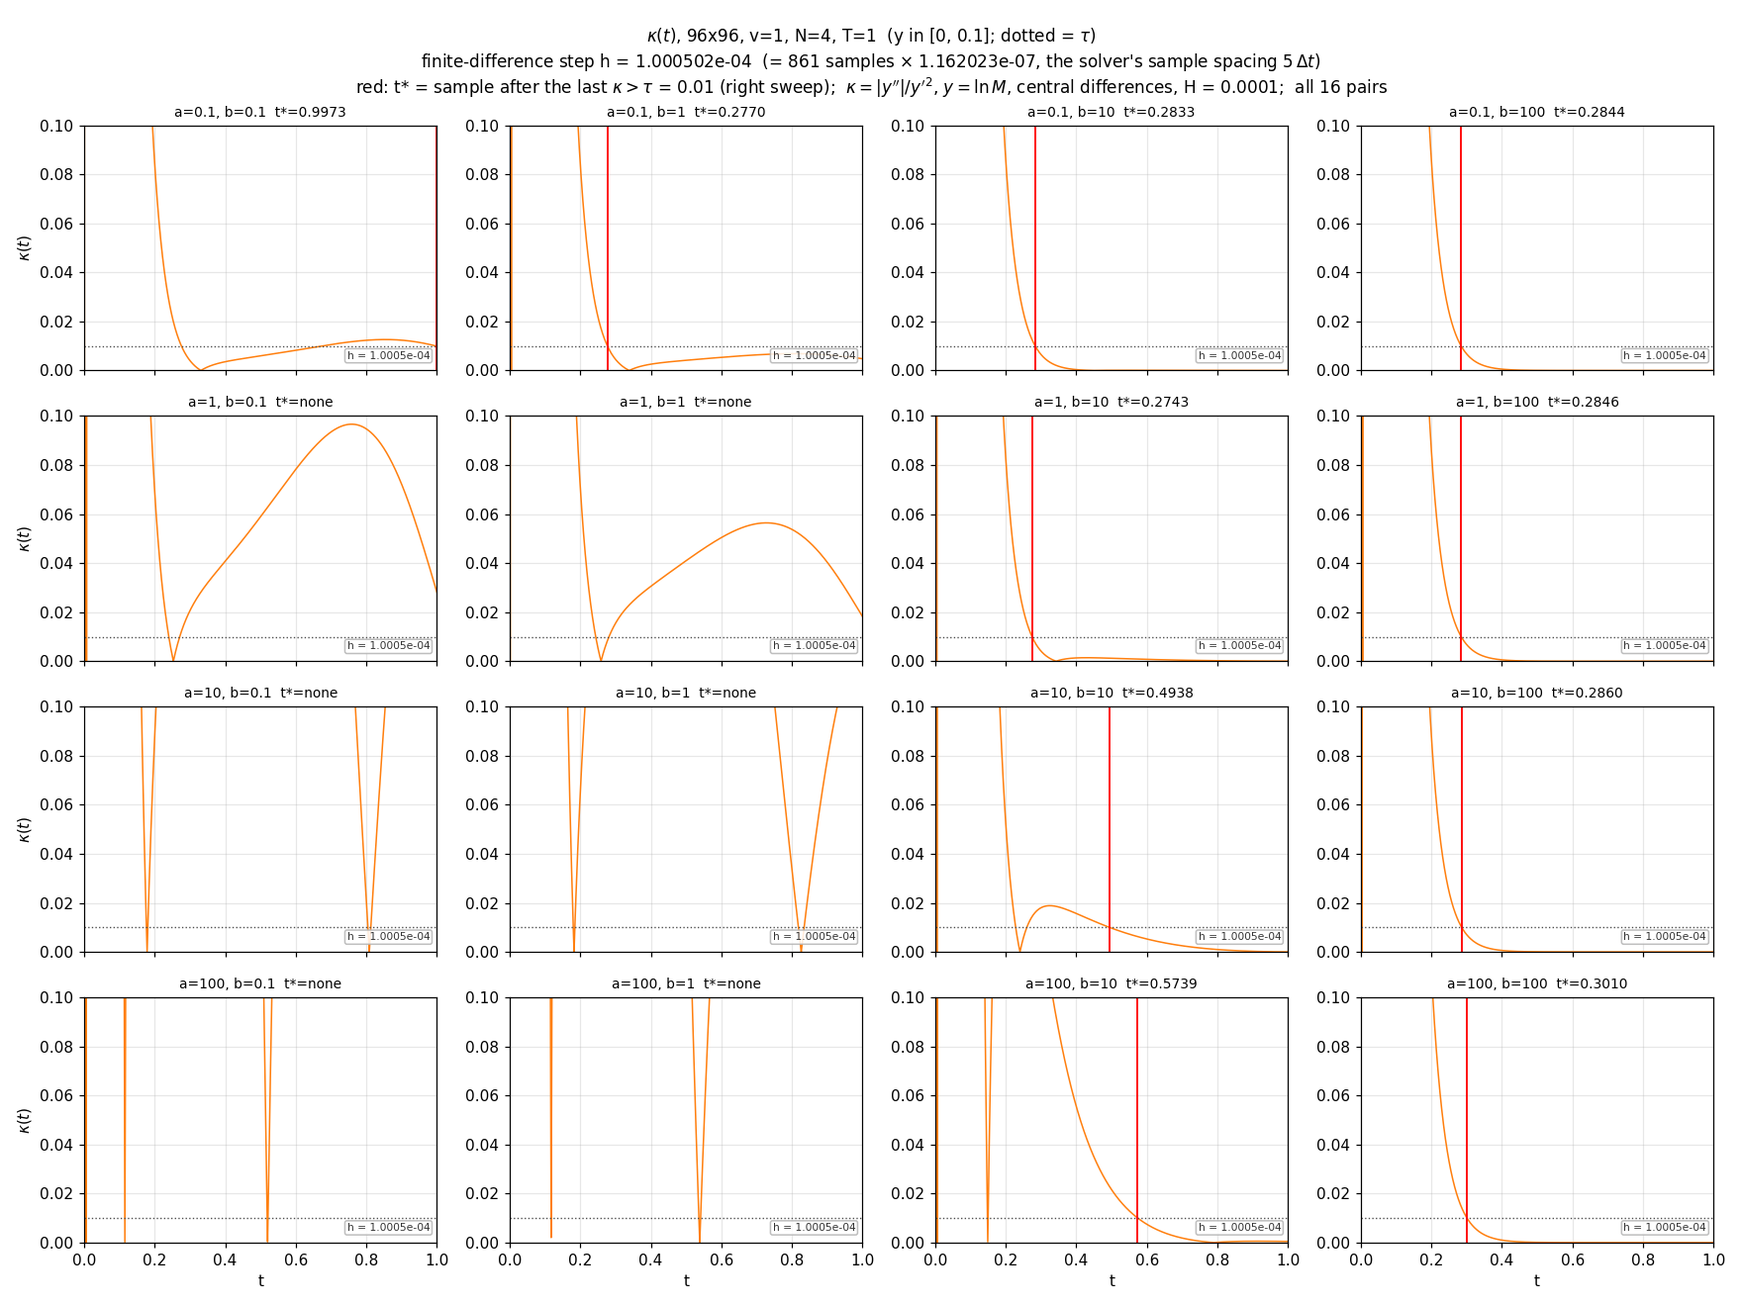
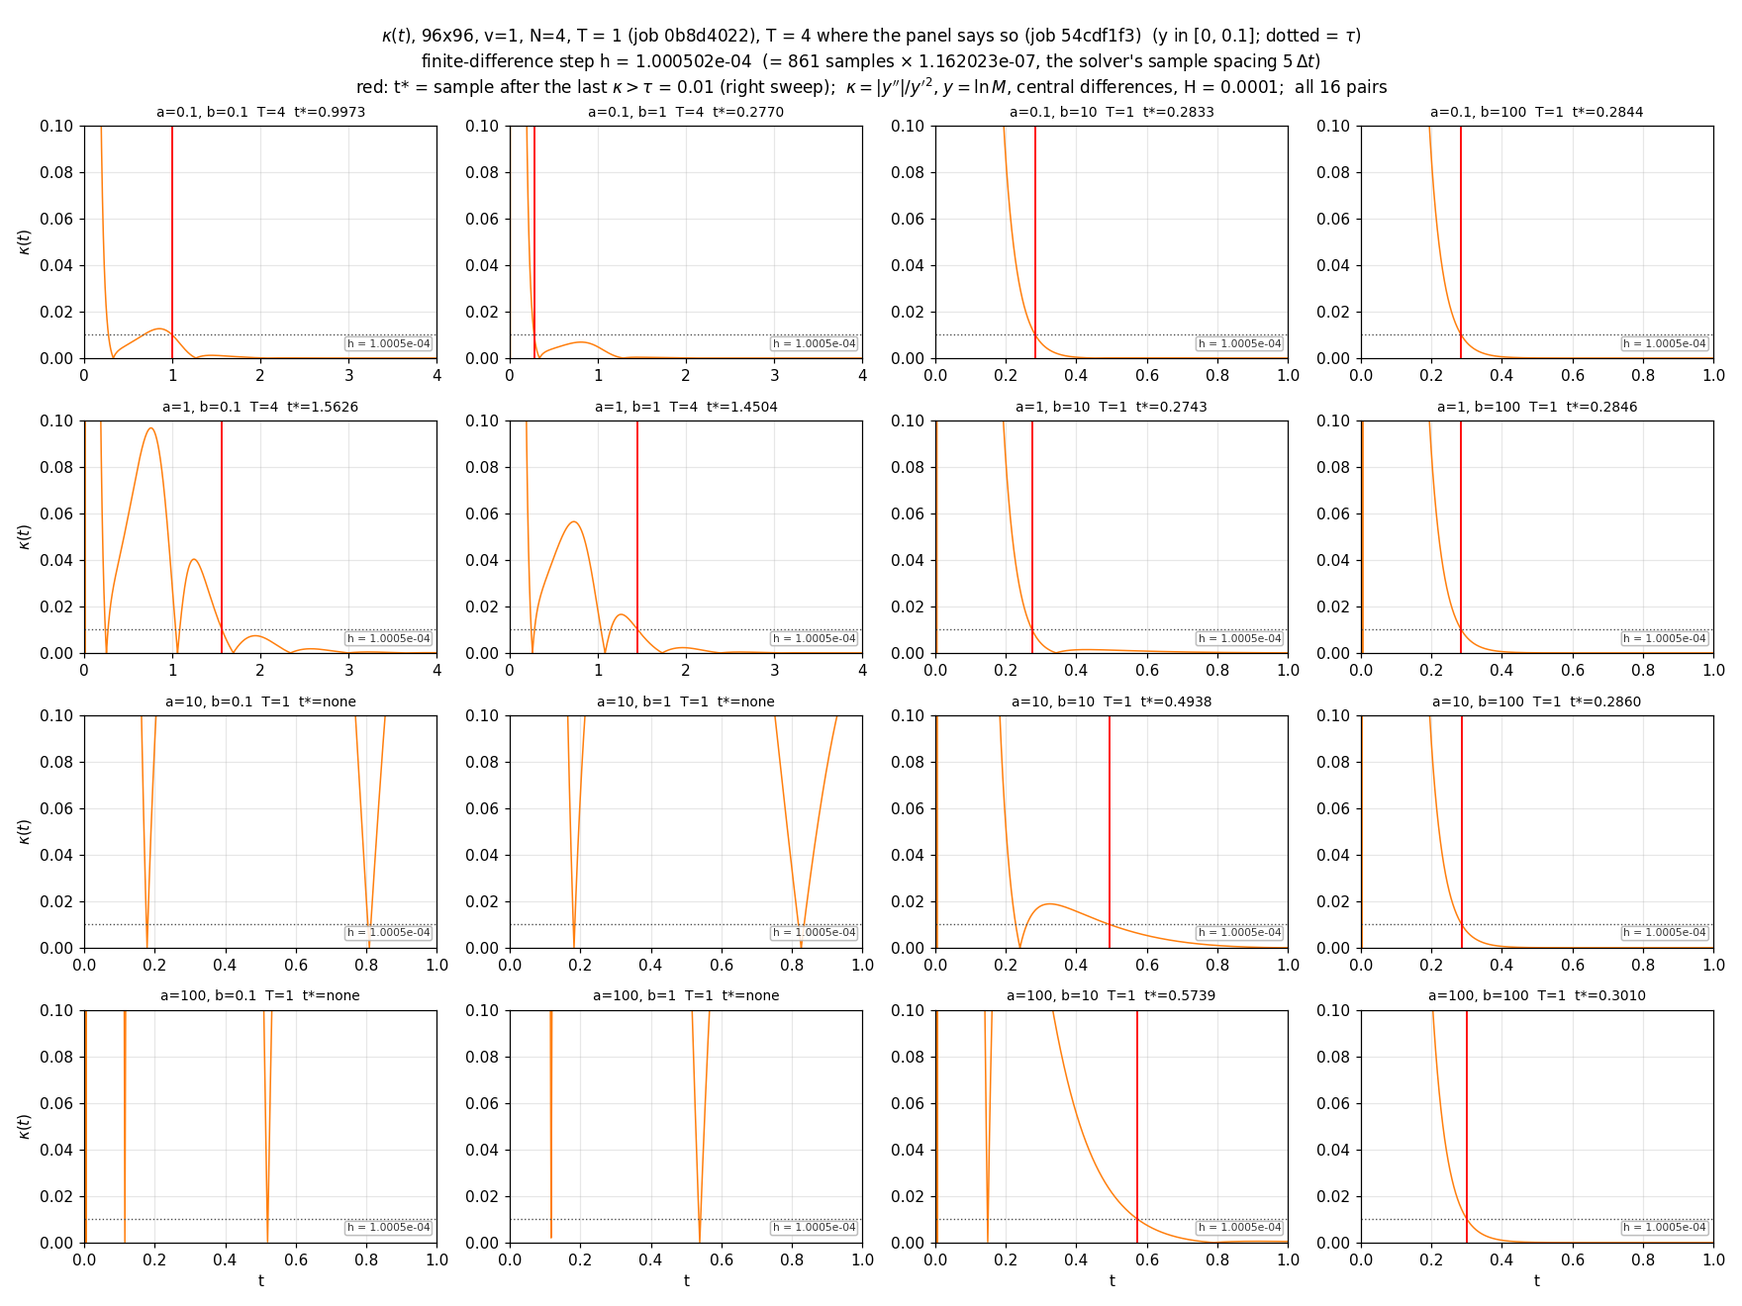
96x96 tau = 0.01 study: first four T = 4 pairs from job 54cdf1f3
(0.1, 0.1), (0.1, 1), (1, 0.1), (1, 1) now use their T = 4 series; the
other pairs stay at T = 1 (job 0b8d4022) until job 54cdf1f3 finishes them.
All four get a t*: |y''| <= 0.01 gives 1.851, 1.545, 2.888, 2.304 (none at
T = 1); kappa gives 0.997, 0.277, 1.563, 1.450 -- the (0.1, 0.1) value,
which looked like an end-of-run artifact at T = 1, holds to t = 4.

Panels carry their own T and x-range, tables gain T and source columns,
and scripts/t4_source.py picks each pair's T = 4 series once it finishes,
so rerunning the scripts picks up the rest. README updated.

comp-state-ledger: entries for the four finished pairs' saved states.

Claude-Session: https://claude.ai/code/session_01QVUXHCUyhrdRWbdooaMMLs

diff --git a/results/2026-10-07_ab-grid-96x96_tau0.01/scripts/tau_mask_96.py b/results/2026-10-07_ab-grid-96x96_tau0.01/scripts/tau_mask_96.py
@@ -22,6 +22,9 @@ import numpy as np
 import pandas as pd
 import matplotlib.pyplot as plt
 from launch_functions import launch as L
+from t4_source import load_series
+
+TT, SRC = {}, {}
 
 TAU = float(sys.argv[1]) if len(sys.argv) > 1 and sys.argv[1] not in ("main", "additional") else 1e-2
 SP = os.path.dirname(os.path.abspath(__file__))
@@ -60,7 +63,8 @@ for a in A:
     for b in B:
         if (a, b) in EXCLUDED:
             continue
-        m = np.fromfile(os.path.join(SP, f"tm_a{a:g}_b{b:g}.dat"), dtype=np.float64)
+        m, Tp, src = load_series(a, b, SP)
+        TT[(a, b)], SRC[(a, b)] = Tp, src
         t = np.arange(m.size) * h
         y = np.log(m)
         q = np.full_like(y, np.nan)
@@ -69,7 +73,7 @@ for a in A:
         ts = None if np.isnan(r["t_star"]) else r["t_star"]
         keep = slice(0, None, s)                 # plot at the differencing spacing
         data[(a, b)] = (t[keep], y[keep], q[keep], ts)
-        rows.append(dict(a=a, b=b, t_star=ts, m_star=None if ts is None else r["m_star"],
+        rows.append(dict(a=a, b=b, T=Tp, source=src, t_star=ts, m_star=None if ts is None else r["m_star"],
                          M_at_T=float(m[-1]), fit_slope_log10=None if ts is None else r["fit_slope"],
                          tau=TAU))
         print(f"  a={a:g} b={b:g}: t*={'none' if ts is None else f'{ts:.6f}'}", flush=True)
@@ -79,17 +83,17 @@ table.to_csv(os.path.join(OUT, f"t_star_96x96_tau{TAU:g}.csv"), index=False)
 
 # Table as an image.
 fmt = lambda v, f: "none" if v is None or (isinstance(v, float) and np.isnan(v)) else format(v, f)
-cells = [[f"{r['a']:g}", f"{r['b']:g}", fmt(r["t_star"], ".6f"), fmt(r["m_star"], ".6e"),
+cells = [[f"{r['a']:g}", f"{r['b']:g}", f"{r['T']:g}", fmt(r["t_star"], ".6f"), fmt(r["m_star"], ".6e"),
           f"{r['M_at_T']:.6e}"] for r in rows]
 fig, ax = plt.subplots(figsize=(9, 0.42 * len(cells) + 1.4))
 ax.axis("off")
-tb = ax.table(cellText=cells, colLabels=["a", "b", "t*", "m* = M(t*)", "M(T=1)"],
+tb = ax.table(cellText=cells, colLabels=["a", "b", "T", "t*", "m* = M(t*)", "M(T)"],
               loc="center", cellLoc="center")
 tb.auto_set_font_size(False)
 tb.set_fontsize(10)
 tb.scale(1, 1.4)
-ax.set_title(rf"t* by right-sweep mask, $\tau$ = {TAU:g}  --  96x96, v=1, N=4, T=1 "
-             f"(job 0b8d4022), y'' step H={H:.3g}", fontsize=10)
+ax.set_title(rf"t* by right-sweep mask, $\tau$ = {TAU:g}  --  96x96, v=1, N=4, "
+             f"T = 1 (job 0b8d4022) or 4 (job 54cdf1f3), y'' step H={H:.3g}", fontsize=10)
 fig.tight_layout()
 fig.savefig(os.path.join(OUT, f"t_star_table_96x96_tau{TAU:g}.png"), dpi=130)
 plt.close(fig)
@@ -97,7 +101,8 @@ plt.close(fig)
 
 def title(k):
     ts = data[k][3]
-    return f"a={k[0]:g}, b={k[1]:g}  t*=" + ("none" if ts is None else f"{ts:.4f}")
+    return (f"a={k[0]:g}, b={k[1]:g}  T={TT[k]:g}  t*="
+            + ("none" if ts is None else f"{ts:.4f}"))
 
 
 def lnm_panel(ax, k, lim):
@@ -118,7 +123,7 @@ def lnm_zoom_panel(ax, k, clip):
     yc = float(np.interp(ts, t, y))
     lo, hi = ts - 0.15, ts + 0.15
     if clip:
-        lo, hi = max(lo, 0.0), min(hi, T)
+        lo, hi = max(lo, 0.0), min(hi, TT[k])
     ax.set_xlim(lo, hi)
     ax.set_ylim(yc - 0.5, yc + 0.5)
     ax.axhline(yc, color="red", lw=0.6, ls=":")
@@ -164,7 +169,7 @@ figs = [(f"lnM_96x96_tau{TAU:g}.png", r"$\ln M(t)$", lnm_panel, None, ""),
         (f"second_derivative_96x96_tau{TAU:g}_ylim0.1.png", r"$d^2\ln M/dt^2$", d2_panel, 0.1,
          r"  (y-window $\pm$0.1; dotted = $\pm\tau$)")]
 for name, ylab, panel, lim, extra in figs:
-    fig, axes = plt.subplots(4, 4, figsize=(16, 12), sharex=(panel is not lnm_zoom_panel))
+    fig, axes = plt.subplots(4, 4, figsize=(16, 12), sharex=False)
     for i, a in enumerate(A):
         for j, b in enumerate(B):
             ax = axes[i, j]
@@ -174,7 +179,7 @@ for name, ylab, panel, lim, extra in figs:
                         ha="center", va="center", fontsize=9, color="0.5",
                         transform=ax.transAxes)
                 continue
-            ax.set_xlim(0, T)
+            ax.set_xlim(0, TT[(a, b)])
             panel(ax, (a, b), lim)
             ax.grid(True, alpha=0.3)
             ax.set_title(title((a, b)), fontsize=9)
@@ -183,7 +188,7 @@ for name, ylab, panel, lim, extra in figs:
             if j == 0 or (i, j - 1) in [(A.index(x), B.index(y)) for x, y in EXCLUDED]:
                 ax.set_ylabel(ylab)
             ax.tick_params(labelbottom=True)
-    head = f"{ylab}, 96x96, v=1, N=4, T=1{extra}"
+    head = f"{ylab}, 96x96, v=1, N=4, T = 1 (job 0b8d4022), T = 4 where the panel says so (job 54cdf1f3){extra}"
     if panel is d2_panel:
         head += "\n" + STEP_LINE
     fig.suptitle(f"{head}\n{NOTE}", fontsize=11)

diff --git a/results/2026-10-07_ab-grid-96x96_tau0.01/scripts/kappa_96.py b/results/2026-10-07_ab-grid-96x96_tau0.01/scripts/kappa_96.py
@@ -22,6 +22,9 @@ import numpy as np
 import pandas as pd
 import matplotlib.pyplot as plt
 from launch_functions import launch as L
+from t4_source import load_series
+
+TT, SRC = {}, {}
 
 TAU = float(sys.argv[1]) if len(sys.argv) > 1 else 1e-2
 SP = os.path.dirname(os.path.abspath(__file__))
@@ -38,7 +41,8 @@ print(f"sample h={h:.4g}  stride s={s}  H={H:.6g}  tau={TAU:g}")
 data, rows = {}, []
 for a in A:
     for b in B:
-        m = np.fromfile(os.path.join(SP, f"tm_a{a:g}_b{b:g}.dat"), dtype=np.float64)
+        m, Tp, src = load_series(a, b, SP)
+        TT[(a, b)], SRC[(a, b)] = Tp, src
         n = m.size
         t = np.arange(n) * h
         y = np.log(m)
@@ -58,9 +62,9 @@ for a in A:
         full[s:-s] = kap
         keep = slice(0, None, s)
         data[(a, b)] = (t[keep], y[keep], full[keep], ts)
-        rows.append(dict(a=a, b=b, t_star=ts, m_star=mstar, M_at_T=float(m[-1]),
+        rows.append(dict(a=a, b=b, T=Tp, source=src, t_star=ts, m_star=mstar, M_at_T=float(m[-1]),
                          kappa_at_T=float(kap[-1]),
-                         hold_ge_0p1=None if ts is None else bool(T - ts >= HOLD),
+                         hold_ge_0p1=None if ts is None else bool(Tp - ts >= HOLD),
                          tau=TAU))
         print(f"  a={a:g} b={b:g}: t*={'none' if ts is None else f'{ts:.6f}'}  "
               f"kappa(T)={kap[-1]:.3g}", flush=True)
@@ -68,20 +72,20 @@ for a in A:
 pd.DataFrame(rows).to_csv(os.path.join(OUT, f"t_star_kappa_96x96_tau{TAU:g}.csv"), index=False)
 
 fmt = lambda v, f: "none" if v is None else format(v, f)
-cells = [[f"{r['a']:g}", f"{r['b']:g}", fmt(r["t_star"], ".6f"), fmt(r["m_star"], ".6e"),
+cells = [[f"{r['a']:g}", f"{r['b']:g}", f"{r['T']:g}", fmt(r["t_star"], ".6f"), fmt(r["m_star"], ".6e"),
           f"{r['M_at_T']:.6e}", f"{r['kappa_at_T']:.3g}",
           "-" if r["hold_ge_0p1"] is None else ("yes" if r["hold_ge_0p1"] else "no")]
          for r in rows]
 fig, ax = plt.subplots(figsize=(11, 0.4 * len(cells) + 1.4))
 ax.axis("off")
-tb = ax.table(cellText=cells, colLabels=["a", "b", "t*", "m* = M(t*)", "M(T=1)",
+tb = ax.table(cellText=cells, colLabels=["a", "b", "T", "t*", "m* = M(t*)", "M(T)",
                                           "kappa(T)", ">= 0.1 run after t*"],
               loc="center", cellLoc="center")
 tb.auto_set_font_size(False)
 tb.set_fontsize(10)
 tb.scale(1, 1.35)
 ax.set_title(rf"t* by $\kappa = |y''|/y'^2 \leq \tau$ = {TAU:g} (right sweep) -- 96x96, v=1, "
-             f"N=4, T=1 (job 0b8d4022), H={H:.3g}", fontsize=10)
+             f"N=4, T = 1 (job 0b8d4022) or 4 (job 54cdf1f3), H={H:.3g}", fontsize=10)
 fig.tight_layout()
 fig.savefig(os.path.join(OUT, f"t_star_table_kappa_96x96_tau{TAU:g}.png"), dpi=130)
 plt.close(fig)
@@ -89,7 +93,8 @@ plt.close(fig)
 
 def title(k):
     ts = data[k][3]
-    return f"a={k[0]:g}, b={k[1]:g}  t*=" + ("none" if ts is None else f"{ts:.4f}")
+    return (f"a={k[0]:g}, b={k[1]:g}  T={TT[k]:g}  t*="
+            + ("none" if ts is None else f"{ts:.4f}"))
 
 
 def mark(ax, k):
@@ -143,11 +148,11 @@ figs = [(f"kappa_96x96_tau{TAU:g}_ylim0.1.png", r"$\kappa(t)$",
          lambda ax, k: lnm_panel(ax, k, True),
          r"  (window: t* $\pm$ 0.15, $\ln M(t^*)$ $\pm$ 0.5)", False)]
 for name, ylab, panel, extra, share in figs:
-    fig, axes = plt.subplots(4, 4, figsize=(16, 12), sharex=share)
+    fig, axes = plt.subplots(4, 4, figsize=(16, 12), sharex=False)
     for i, a in enumerate(A):
         for j, b in enumerate(B):
             ax = axes[i, j]
-            ax.set_xlim(0, T)
+            ax.set_xlim(0, TT[(a, b)])
             panel(ax, (a, b))
             ax.grid(True, alpha=0.3)
             ax.set_title(title((a, b)), fontsize=9)
@@ -155,7 +160,7 @@ for name, ylab, panel, extra, share in figs:
                 ax.set_xlabel("t")
             if j == 0:
                 ax.set_ylabel(ylab)
-    head = f"{ylab}, 96x96, v=1, N=4, T=1{extra}"
+    head = f"{ylab}, 96x96, v=1, N=4, T = 1 (job 0b8d4022), T = 4 where the panel says so (job 54cdf1f3){extra}"
     if "kappa_96x96" in name:
         head += "\n" + STEP_LINE
     fig.suptitle(f"{head}\n{NOTE}", fontsize=11)

diff --git a/results/2026-10-07_ab-grid-96x96_tau0.01/scripts/line_intercept_96.py b/results/2026-10-07_ab-grid-96x96_tau0.01/scripts/line_intercept_96.py
@@ -17,6 +17,9 @@ import numpy as np
 import pandas as pd
 import matplotlib.pyplot as plt
 from launch_functions import launch as L
+from t4_source import load_series
+
+TT, SRC = {}, {}
 
 SP = os.path.dirname(os.path.abspath(__file__))
 OUT = os.path.join(R, "results", "2026-10-07_ab-grid-96x96_tau0.01", "line_intercept_criterion")
@@ -56,7 +59,8 @@ for a in A:
     for b in B:
         if (a, b) in EXCLUDED:
             continue
-        m = np.fromfile(os.path.join(SP, f"tm_a{a:g}_b{b:g}.dat"), dtype=np.float64)
+        m, Tp, src = load_series(a, b, SP)
+        TT[(a, b)], SRC[(a, b)] = Tp, src
         t = np.arange(m.size) * h
         y1, y2 = np.log10(m[i1]), np.log10(m[i2])
         slope = (y2 - y1) / (X2 - X1)
@@ -66,7 +70,7 @@ for a in A:
         m10 = float(m[k10]) if 0 <= k10 < m.size else float("nan")
         mts = float(np.exp(np.interp(ts, t, np.log(m)))) if 0 <= ts <= t[-1] else float("nan")
         data[(a, b)] = (t[::stride], np.log(m[::stride]), ts, slope, icpt)
-        rows.append(dict(a=a, b=b, t_star_intercept=ts, slope_log10=slope,
+        rows.append(dict(a=a, b=b, T=Tp, source=src, t_star_intercept=ts, slope_log10=slope,
                          intercept_log10=icpt, M_at_0p4=float(m[i1]), M_at_0p5=float(m[i2]),
                          M_at_t_star=mts, m_star_old_M_at_10t_star=m10))
         print(f"a={a:g} b={b:g}: t*={ts:.6f}  slope={slope:.4f}  M(10t*)={m10:.4g}")
@@ -77,14 +81,14 @@ table.to_csv(os.path.join(OUT, "t_star_line_intercept_96x96.csv"), index=False)
 
 def title(k):
     ts = data[k][2]
-    return f"a={k[0]:g}, b={k[1]:g}  t*={ts:.4f}"
+    return f"a={k[0]:g}, b={k[1]:g}  T={TT[k]:g}  t*={ts:.4f}"
 
 
 def panel(ax, k, zoom):
     t, y, ts, slope, icpt = data[k]
     ax.plot(t, y, lw=1.2, color="0.25", label=r"$\ln M$")
     # The fitted line, in ln M units: ln M = ln(10) * (icpt + slope * t).
-    tl = np.linspace(min(0.0, ts) - 0.05, T, 400)
+    tl = np.linspace(min(0.0, ts) - 0.05, TT[k], 400)
     ax.plot(tl, np.log(10) * (icpt + slope * tl), lw=1.0, ls="--", color="C0",
             label="line through t=0.4, 0.5")
     ax.plot([X1, X2], np.log(10) * (icpt + slope * np.array([X1, X2])), "o", ms=4,
@@ -92,15 +96,15 @@ def panel(ax, k, zoom):
     ax.axhline(0, color="k", lw=0.6)
     ax.axvline(ts, color="red", lw=1.2)
     if zoom:
-        if 0 <= ts <= T:
+        if 0 <= ts <= TT[k]:
             ax.set_xlim(ts - 0.15, ts + 0.15)
             ax.set_ylim(-0.5, 0.5)
         else:
-            ax.set_xlim(min(0.0, ts) - 0.05, T)
+            ax.set_xlim(min(0.0, ts) - 0.05, TT[k])
             ax.text(0.5, 0.06, "t* outside [0, 1]: full view", ha="center", fontsize=8,
                     color="0.4", transform=ax.transAxes)
     else:
-        ax.set_xlim(min(0.0, ts) - 0.05, T)
+        ax.set_xlim(min(0.0, ts) - 0.05, TT[k])
 
 
 for name, zoom, extra in [("lnM_line_intercept_96x96.png", False, ""),
@@ -123,7 +127,7 @@ for name, zoom, extra in [("lnM_line_intercept_96x96.png", False, ""),
     first = (3, 3) if MODE in ("main", "all") else next(
         (i, j) for i, x in enumerate(A) for j, z in enumerate(B) if (x, z) not in EXCLUDED)
     axes[first].legend(fontsize=7, loc="lower left")
-    fig.suptitle(f"ln M(t), 96x96, v=1, N=4, T=1{extra}\n"
+    fig.suptitle(f"ln M(t), 96x96, v=1, N=4, T = 1 (job 0b8d4022), T = 4 where the panel says so (job 54cdf1f3){extra}\n"
                  r"original criterion: line through $\log_{10}M$ at t = 0.4, 0.5 (blue dashed, "
                  r"points); red: t* where it reaches $M$ = 1 ($\ln M$ = 0)", fontsize=11)
     fig.tight_layout()

diff --git a/results/2026-10-07_ab-grid-96x96_tau0.01/scripts/t4_source.py b/results/2026-10-07_ab-grid-96x96_tau0.01/scripts/t4_source.py
@@ -1,0 +1,32 @@
+"""Which total-mass series each (a, b) pair of the 96x96 study uses.
+
+Job 0b8d4022 solved all sixteen pairs to T = 1. Job 54cdf1f3 re-solves the
+eight b <= 1 pairs to T = 4; a pair counts as complete once its final state
+has been saved (final_state.json), and from then on the T = 4 series replaces
+the T = 1 one. Everything else about the series is identical: same grid,
+rates, velocity, tubes and sampling (sample i at t = i * 5 * dT).
+"""
+import json
+import os
+
+import numpy as np
+
+R = "N:/work/Intracellular-Transport-Computational-Modeling"
+T4_JOB = "54cdf1f33b454147b0e56700860c2d10"
+T1_JOB = "0b8d4022"
+T4_DIR = os.path.join(R, "data_output", "jobs", T4_JOB, "checkpoints")
+
+
+def load_series(a, b, t1_dir):
+    """(M, T, source label) for pair (a, b)."""
+    d = os.path.join(T4_DIR, f"ab_grid_char_time_a{a:g}_b{b:g}")
+    meta_path = os.path.join(d, "final_state.json")
+    if os.path.exists(meta_path):
+        with open(meta_path) as f:
+            meta = json.load(f)
+        rk = int(meta["relative_k"])
+        m = np.array(np.memmap(os.path.join(d, "timeseries_4.dat"), dtype=np.float64,
+                               mode="r", shape=(rk,)))
+        return m, float(meta["T_requested"]), f"job {T4_JOB[:8]}, T = {meta['T_requested']:g}"
+    m = np.fromfile(os.path.join(t1_dir, f"tm_a{a:g}_b{b:g}.dat"), dtype=np.float64)
+    return m, 1.0, f"job {T1_JOB}, T = 1"

diff --git a/results/2026-10-07_ab-grid-96x96_tau0.01/README.md b/results/2026-10-07_ab-grid-96x96_tau0.01/README.md
@@ -1,9 +1,17 @@
 # t* on the 96×96 (a, b) grid, τ = 0.01 — 2026-10-07
 
-Source: job `0b8d4022` (96×96, v = 1, N_LIST = [0, 24, 48, 72], T = 1, GPU),
-all sixteen pairs (a, b) ∈ {0.1, 1, 10, 100}². Its checkpoints keep each
-pair's total-mass series (`timeseries_4.dat`, M itself, float64, one sample per
-5 steps); everything here is computed from those, with no re-solve.
+Sources (96×96, v = 1, N_LIST = [0, 24, 48, 72], GPU, all sixteen pairs
+(a, b) ∈ {0.1, 1, 10, 100}²):
+
+- job `0b8d4022` — all sixteen pairs to **T = 1**;
+- job `54cdf1f3` — the eight b ≤ 1 pairs to **T = 4**, still running. Each
+  pair switches to its T = 4 series once that pair has finished (its final
+  state saved); panels and table rows say which T they use. Done so far
+  (2026-10-15): (0.1, 0.1), (0.1, 1), (1, 0.1), (1, 1).
+
+Both keep each pair's total-mass series (`timeseries_4.dat`, M itself, float64,
+one sample per 5 steps); everything here is computed from those, with no
+re-solve. Regenerate as more T = 4 pairs finish (see Reproducing).
 
 Three criteria, one folder each. All use y = ln M with central differences
 across s = 861 samples (H ≈ 1.0e-4), and the same right sweep: t* is the sample
@@ -11,19 +19,25 @@ just after the last one where the criterion's function exceeds τ = 0.01.
 
 ## Right-sweep |y″| ≤ τ (this folder; the committed criterion, `launch._char_time_onset`)
 
-| (a, b) with a t* | t* | | (a, b) without |
-|---|---|---|---|
-| (0.1, 10), (0.1, 100), (1, 100), (10, 100) | 0.405–0.427 | | all six with b ≤ 1 at a ≤ 10 |
-| (100, 100) | 0.447 | | (100, 0.1), (100, 1) |
-| (100, 10), (1, 10), (10, 10) | 0.729, 0.750, 0.876 | | |
+| (a, b) | T | t* |
+|---|---|---|
+| (0.1, 10), (0.1, 100), (1, 100), (10, 100) | 1 | 0.405–0.427 |
+| (100, 100) | 1 | 0.447 |
+| (100, 10), (1, 10), (10, 10) | 1 | 0.729, 0.750, 0.876 |
+| (0.1, 1), (0.1, 0.1) | 4 | 1.545, 1.851 |
+| (1, 1), (1, 0.1) | 4 | 2.304, 2.888 |
+| (10, 0.1), (10, 1), (100, 0.1), (100, 1) | 1 (T = 4 pending) | none |
 
-The eight pairs without t* still have |y″| well above τ at T = 1 (oscillating
-for b ≤ 1, a ≤ 10; still bending at −0.2 to −0.7 for a = 100, b ≤ 1). At 16×16
-the b ≤ 1 pairs needed T ≈ 4; (100, 0.1) and (100, 1) are also strongly
-grid-dependent (late decay rate ~0.4 at 16×16, ~0.6 at 32×32, ~1.2 at 96×96).
+With slow switching onto the advective layer (b ≤ 1) y″ oscillates about zero
+with shrinking swings before it settles; at T = 4 the first four such pairs
+settle at t* = 1.5–2.9, later for smaller b and larger a. The four still at
+T = 1 have |y″| well above τ at the end of that run (oscillating for a = 10;
+still bending at −0.2 to −0.7 for a = 100). (100, 0.1) and (100, 1) are also
+strongly grid-dependent (late decay rate ~0.4 at 16×16, ~0.6 at 32×32, ~1.2 at
+96×96).
 
-- `t_star_96x96_tau0.01.csv`, `t_star_table_96x96_tau0.01.png` — t*,
-  m* = M(t*), M(T = 1) (CSV also has the fitted slope and τ)
+- `t_star_96x96_tau0.01.csv`, `t_star_table_96x96_tau0.01.png` — T, t*,
+  m* = M(t*), M(T) (CSV also has the source job, fitted slope and τ)
 - `lnM_96x96_tau0.01.png` — ln M with t* in red; `_zoom` windows each panel to
   t* ± 0.15 and ln M(t*) ± 0.5 (`_zoom_clipped` stops at [0, T])
 - `second_derivative_96x96_tau0.01.png` — y″, full range; `_ylim0.3/0.2/0.1`
@@ -42,11 +56,13 @@ after t*; here that is a column, not applied.
 - `t_star_kappa_96x96_tau0.01.csv`, `t_star_table_kappa_96x96_tau0.01.png` —
   t*, m*, M(T), κ(T) and whether ≥ 0.1 of run follows t*
 
-κ gives a t* for ten pairs: 0.274–0.301 for b ≥ 10 (and (0.1, 1)), 0.494 for
-(10, 10), 0.574 for (100, 10), and 0.997 for (0.1, 0.1) — the last only
-because κ dips just under τ in the final samples (flagged "no" in the 0.1-run
-column). Dividing by y′² makes κ smaller than |y″| wherever the decay is fast
-(|y′| ≈ 5), so κ t* is earlier than |y″| t* for b ≥ 10.
+κ gives a t* for twelve pairs: 0.274–0.301 for b ≥ 10 and (0.1, 1), 0.494 for
+(10, 10), 0.574 for (100, 10), 0.997 for (0.1, 0.1), and 1.450 / 1.563 for
+(1, 1) / (1, 0.1) at T = 4. The (0.1, 0.1) value looked like an end-of-run
+artifact at T = 1 (κ dipped under τ only in the last samples); at T = 4 it is
+unchanged and κ stays under τ to t = 4, so it was the real onset. Dividing by
+y′² makes κ smaller than |y″| wherever the decay is fast (|y′| ≈ 5), so κ t*
+is earlier than |y″| t* throughout.
 
 ## `line_intercept_criterion/` — the original definition
 
@@ -59,7 +75,10 @@ A line through log10 M at t = 0.4 and t = 0.5, extended to M = 1
 ## Reproducing
 
 `scripts/tau_mask_96.py [tau]`, `scripts/kappa_96.py [tau]` and
-`scripts/line_intercept_96.py` expect the sixteen `tm_a{a}_b{b}.dat` files
+`scripts/line_intercept_96.py` take each pair's series through
+`scripts/t4_source.py`: job `54cdf1f3`'s T = 4 series (read in place from
+`data_output/jobs/54cdf1f3…/checkpoints/`) once the pair has finished, and
+otherwise the sixteen T = 1 `tm_a{a}_b{b}.dat` files
 (download from
 `/jobs/0b8d4022/outputs/checkpoints/ab_grid_char_time_a{a}_b{b}/timeseries_4.dat`)
 next to the script. All three cover the sixteen pairs; `tau_mask_96.py` and
